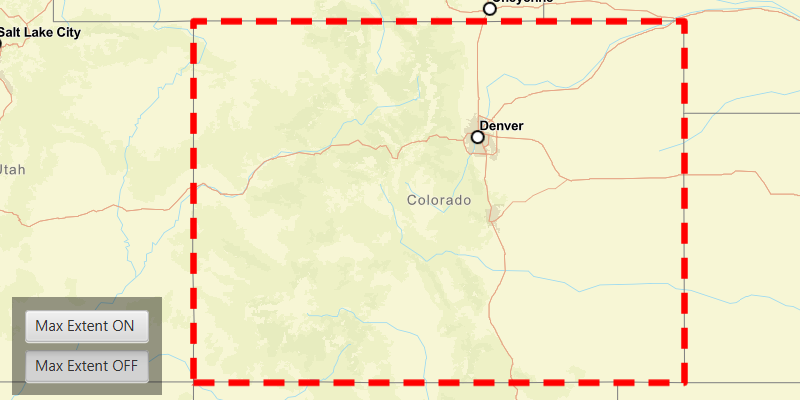
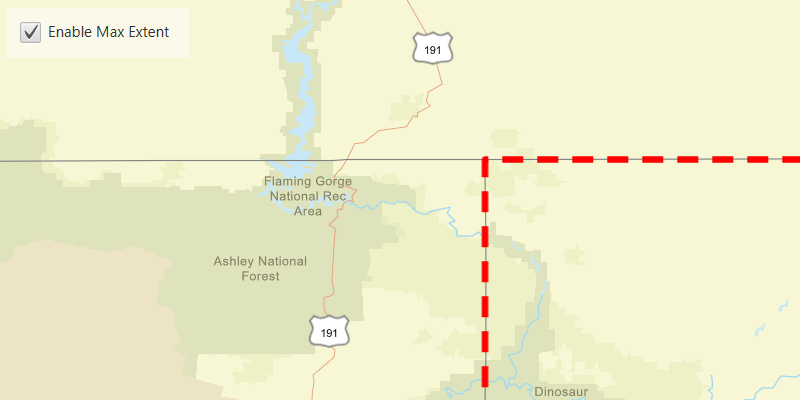
Implemented changes from PR review

diff --git a/map/set-max-extent/src/main/java/com/esri/samples/set_max_extent/SetMaxExtentSample.java b/map/set-max-extent/src/main/java/com/esri/samples/set_max_extent/SetMaxExtentSample.java
@@ -1,0 +1,158 @@
+/*
+ * Copyright 2022 Esri.
+ *
+ * Licensed under the Apache License, Version 2.0 (the "License"); you may not
+ * use this file except in compliance with the License. You may obtain a copy of
+ * the License at
+ *
+ * http://www.apache.org/licenses/LICENSE-2.0
+ *
+ * Unless required by applicable law or agreed to in writing, software
+ * distributed under the License is distributed on an "AS IS" BASIS, WITHOUT
+ * WARRANTIES OR CONDITIONS OF ANY KIND, either express or implied. See the
+ * License for the specific language governing permissions and limitations under
+ * the License.
+ */
+
+package com.esri.samples.set_max_extent;
+
+import com.esri.arcgisruntime.ArcGISRuntimeEnvironment;
+import com.esri.arcgisruntime.geometry.Envelope;
+import com.esri.arcgisruntime.geometry.Point;
+import com.esri.arcgisruntime.geometry.SpatialReferences;
+import com.esri.arcgisruntime.loadable.LoadStatus;
+import com.esri.arcgisruntime.mapping.ArcGISMap;
+import com.esri.arcgisruntime.mapping.BasemapStyle;
+import com.esri.arcgisruntime.mapping.Viewpoint;
+import com.esri.arcgisruntime.mapping.view.Graphic;
+import com.esri.arcgisruntime.mapping.view.GraphicsOverlay;
+import com.esri.arcgisruntime.mapping.view.MapView;
+import com.esri.arcgisruntime.symbology.ColorUtil;
+import com.esri.arcgisruntime.symbology.SimpleLineSymbol;
+import com.esri.arcgisruntime.symbology.SimpleRenderer;
+import javafx.application.Application;
+import javafx.geometry.Insets;
+import javafx.geometry.Pos;
+import javafx.scene.Scene;
+import javafx.scene.control.Alert;
+import javafx.scene.control.CheckBox;
+import javafx.scene.layout.Background;
+import javafx.scene.layout.BackgroundFill;
+import javafx.scene.layout.CornerRadii;
+import javafx.scene.layout.StackPane;
+import javafx.scene.layout.VBox;
+import javafx.scene.paint.Color;
+import javafx.scene.paint.Paint;
+import javafx.stage.Stage;
+
+public class SetMaxExtentSample extends Application {
+
+  private MapView mapView;
+
+  @Override
+  public void start(Stage stage) {
+
+    try {
+      // create stack pane and application scene
+      var stackPane = new StackPane();
+      var scene = new Scene(stackPane);
+
+      // set title, size, and add scene to stage
+      stage.setTitle("Set Max Extent Sample");
+      stage.setWidth(800);
+      stage.setHeight(700);
+      stage.setScene(scene);
+      stage.show();
+
+      // authentication with an API key or named user is required to access basemaps and other location services
+      String yourAPIKey = System.getProperty("apiKey");
+      ArcGISRuntimeEnvironment.setApiKey(yourAPIKey);
+
+      // create a map with the streets basemap style
+      ArcGISMap map = new ArcGISMap(BasemapStyle.ARCGIS_STREETS);
+
+      // create a map view and set the map to it
+      mapView = new MapView();
+      mapView.setMap(map);
+
+      // create an envelope with an extent covering the state of Colorado
+      Point coloradoNorthWestPoint = new Point(-12139393.2109, 5012444.0468, SpatialReferences.getWebMercator());
+      Point coloradoSouthEastPoint = new Point(-11359277.5124, 4438148.7816, SpatialReferences.getWebMercator());
+      var envelope = new Envelope(coloradoNorthWestPoint, coloradoSouthEastPoint);
+
+      // create a new graphics overlay and add a new graphic to it that shows the Colorado border as a red dashed line
+      var graphicsOverlay = new GraphicsOverlay();
+      graphicsOverlay.getGraphics().add(new Graphic(envelope));
+      var simpleRenderer = new SimpleRenderer(new SimpleLineSymbol(SimpleLineSymbol.Style.DASH,
+        ColorUtil.colorToArgb(Color.RED), 5));
+      graphicsOverlay.setRenderer(simpleRenderer);
+
+      // add the graphics overlay to the map view
+      mapView.getGraphicsOverlays().add(graphicsOverlay);
+
+      // create a control panel for toggling the max extent setting
+      var controlsVBox = new VBox(6);
+      controlsVBox.setBackground(new Background(new BackgroundFill(Paint.valueOf("rgba(255,255,255,0.5)"),
+        CornerRadii.EMPTY, Insets.EMPTY)));
+      controlsVBox.setPadding(new Insets(10.0));
+      controlsVBox.setMaxSize(145, 40);
+
+      // create a checkbox for toggling max extent
+      var checkbox = new CheckBox("Enable Max Extent");
+      checkbox.setSelected(true);
+      checkbox.setOnMouseClicked(e -> {
+        if (checkbox.isSelected()) {
+          map.setMaxExtent(envelope);
+        } else {
+          map.setMaxExtent(null);
+        }
+      });
+
+      //add the checkbox to the control panel
+      controlsVBox.getChildren().add(checkbox);
+
+      // listen for the map to finish loading, and check it has loaded
+      map.addDoneLoadingListener(() -> {
+        if (map.getLoadStatus() == LoadStatus.LOADED) {
+          // constrain the display of the map to the state borders of Colorado by setting the map's max extent to the
+          // envelope
+          map.setMaxExtent(envelope);
+          // set the map view's viewpoint with the envelope
+          mapView.setViewpoint(new Viewpoint(envelope));
+        } else if (map.getLoadStatus() == LoadStatus.FAILED_TO_LOAD) {
+          new Alert(Alert.AlertType.ERROR, "Map failed to load").show();
+        }
+      });
+
+      // add the map view and the control panel to the stack pane
+      stackPane.getChildren().addAll(mapView, controlsVBox);
+      StackPane.setAlignment(controlsVBox, Pos.TOP_LEFT);
+      StackPane.setMargin(controlsVBox, new Insets(10, 0, 0, 10));
+    } catch (Exception e) {
+      // on any error, display the stack trace.
+      e.printStackTrace();
+    }
+  }
+
+  /**
+   * Stops and releases all resources used in application.
+   */
+  @Override
+  public void stop() {
+
+    if (mapView != null) {
+      mapView.dispose();
+    }
+  }
+
+  /**
+   * Opens and runs application.
+   *
+   * @param args arguments passed to this application
+   */
+  public static void main(String[] args) {
+
+    Application.launch(args);
+  }
+
+}

diff --git a/map/set-max-extent/src/main/java/com/esri/samples/set_max_extent/SetMaxExtentLauncher.java b/map/set-max-extent/src/main/java/com/esri/samples/set_max_extent/SetMaxExtentLauncher.java
@@ -5,5 +5,7 @@ package com.esri.samples.set_max_extent;
  */
 public class SetMaxExtentLauncher {
 
-    public static void main(String[] args) { SetMaxExtentSample.main(args); }
+  public static void main(String[] args) {
+    SetMaxExtentSample.main(args);
+  }
 }
